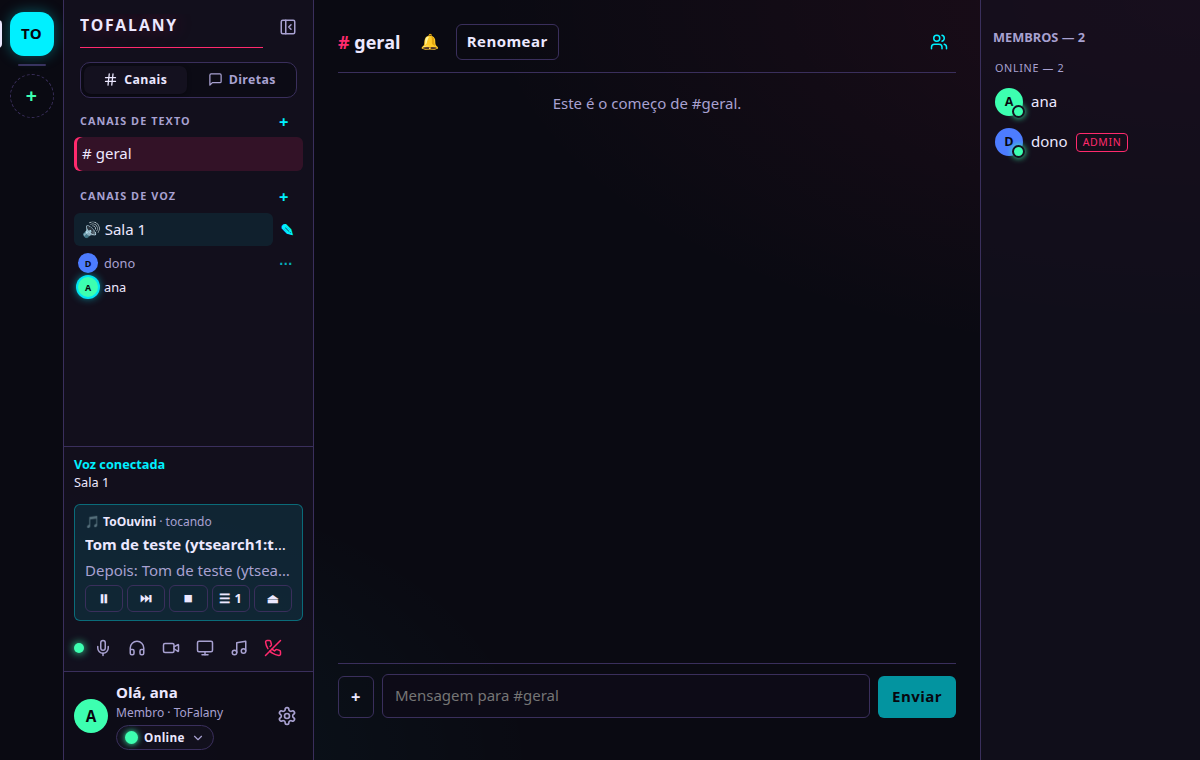
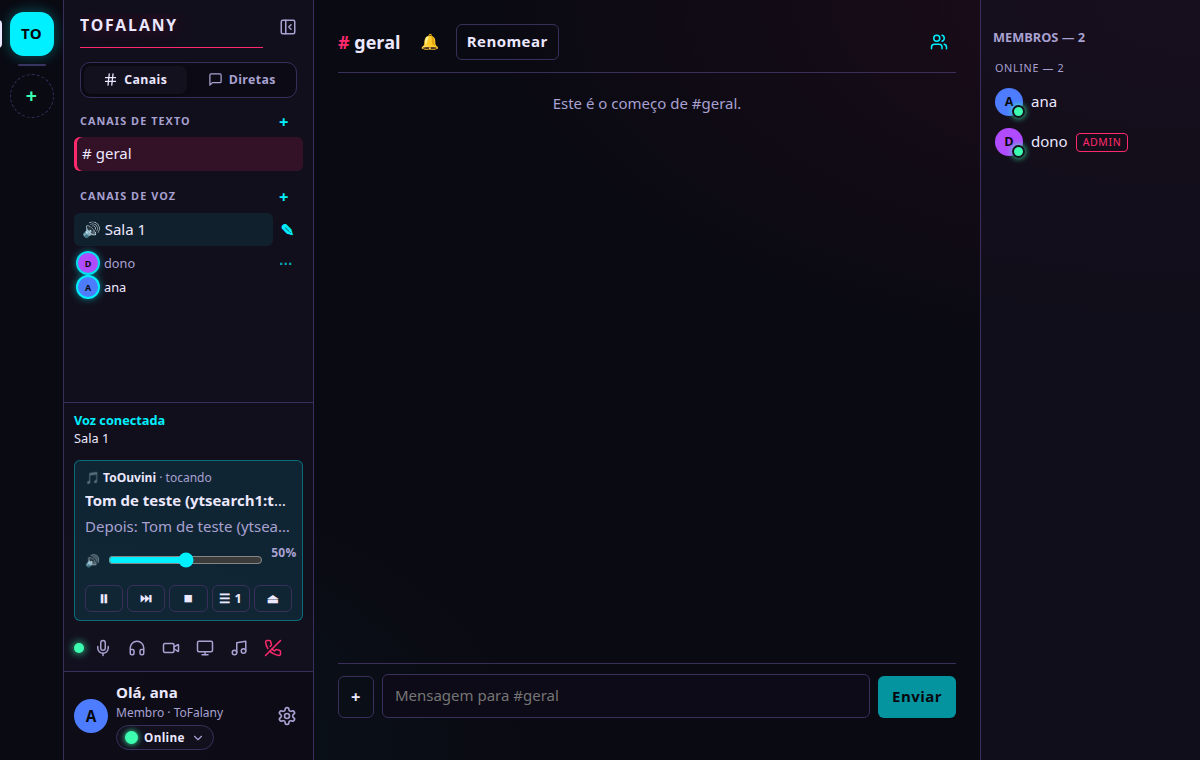
fix(ToOuvini): /play não dá mais "sem conexão"; "carregando…" até o primeiro som; volume só para mim
- Link do YouTube: título pelo oEmbed (menos de 1 s); busca por nome é rasa (sem extrair o vídeo)
- O app espera até 60 s pela resposta do comando (na VPS o YouTube leva uns 20 s)
- O painel mostra "carregando…" até o áudio sair (antes dizia "tocando" em silêncio)
- Barra de volume do ToOuvini no painel, só para quem ouve (começa em 50%), guardada como o volume de uma pessoa

diff --git a/client/src/renderer/telas/TelaPrincipal.tsx b/client/src/renderer/telas/TelaPrincipal.tsx
@@ -1,5 +1,5 @@
 import { useCallback, useEffect, useEffectEvent, useMemo, useRef, useState } from 'react';
-import { SOM_INTERVALO_MS, ATALHOS_PADRAO, AUDIO_PADRAO, DIGITANDO_DURACAO_MS, type AcaoAtalho, type StatusPessoa, type StatusVisivel, type EscolhaStatus, type Tema, type PartesOcultas, type Atalhos, type PreferenciasAudio, type PreferenciasPessoas, type PreferenciasSons, type PreferenciasNotificacoes, type PreferenciasTela, type QualidadeTela, TELA_PADRAO, qualidadesPermitidas, NOTIFICACOES_PADRAO, SONS_PADRAO, type Destino, type MensagemDto, type MotivoRevogacao, type TipoCanal, type UsuarioDto, permissoesDe, type Permissao, type AcaoFechar, acaoAoFechar, lerComandoMusica, type ComandoMusica } from '@tofalando/shared';
+import { SOM_INTERVALO_MS, ATALHOS_PADRAO, AUDIO_PADRAO, DIGITANDO_DURACAO_MS, type AcaoAtalho, type StatusPessoa, type StatusVisivel, type EscolhaStatus, type Tema, type PartesOcultas, type Atalhos, type PreferenciasAudio, type PreferenciasPessoas, type PreferenciasSons, type PreferenciasNotificacoes, type PreferenciasTela, type QualidadeTela, TELA_PADRAO, qualidadesPermitidas, NOTIFICACOES_PADRAO, SONS_PADRAO, type Destino, type MensagemDto, type MotivoRevogacao, type TipoCanal, type UsuarioDto, permissoesDe, type Permissao, IDENTIDADE_BOT_MUSICA, VOLUME_BOT_PADRAO, type AcaoFechar, acaoAoFechar, lerComandoMusica, type ComandoMusica } from '@tofalando/shared';
 import { useShallow } from 'zustand/react/shallow';
 import { useLoja } from '../estado/loja';
 import { conectarTempoReal, type ConexaoTempoReal } from '../servicos/tempo-real';
@@ -375,7 +375,7 @@ export function TelaPrincipal({ servidorUrl, token, usuarioInicial, aoSair, aoTr
     salaVozRef.current?.definirPessoas(novo);
     adiarGravacao({ pessoas: { servidor: servidorUrl, valor: novo } });
   }
-  const volumePessoa = (id: number, volume: number) =>
+  const volumePessoa = (id: number | string, volume: number) =>
     mudarPessoas({
       ...pessoasRef.current,
       volumes: { ...pessoasRef.current.volumes, [String(id)]: volume },
@@ -894,7 +894,8 @@ export function TelaPrincipal({ servidorUrl, token, usuarioInicial, aoSair, aoTr
   const enviarMensagem = (destino: Destino, texto: string, anexos: string[]) =>
     pedir((c) => c.pedir('mensagem:enviar', { destino, texto, anexos }), acoes.adicionarMensagem);
   /** Backlog v2, item 14: /tocar, /pular e /parar no chat viram comando do bot (não vão como mensagem). */
-  const comandoMusica = (comando: ComandoMusica) => pedir((c) => c.pedir('musica:comando', comando), acoes.definirMusica);
+  // A busca no YouTube leva alguns segundos na VPS: o comando espera até 60 s.
+  const comandoMusica = (comando: ComandoMusica) => pedir((c) => c.pedir('musica:comando', comando, 60_000), acoes.definirMusica);
   // /queue só abre a fila no painel (não vai ao servidor).
   const [filaMusicaAberta, setFilaMusicaAberta] = useState(false);
   const enviarNoCanal = (canalId: number, texto: string, anexos: string[]) => {
@@ -1158,6 +1159,8 @@ export function TelaPrincipal({ servidorUrl, token, usuarioInicial, aoSair, aoTr
                   aoComando={comandoMusica}
                   filaAberta={filaMusicaAberta}
                   aoAlternarFila={() => setFilaMusicaAberta(!filaMusicaAberta)}
+                  volume={pessoasVoz.volumes[IDENTIDADE_BOT_MUSICA] ?? VOLUME_BOT_PADRAO}
+                  aoVolume={(v) => volumePessoa(IDENTIDADE_BOT_MUSICA, v)}
                 />
               )}
               {minhaVoz !== null && !entrandoVoz && (

diff --git a/server/src/musica/fonte.ts b/server/src/musica/fonte.ts
@@ -70,6 +70,34 @@ export function lerPlaylist(saida: string, limite: number): InfoMusica[] {
   return lista;
 }
 
+/** Id do vídeo de um link do YouTube (watch?v=, youtu.be/, shorts/, music.youtube.com); undefined se não for de vídeo. */
+export function idDoVideo(link: string): string | undefined {
+  try {
+    const u = new URL(link);
+    if (!HOSTS_YOUTUBE.test(u.hostname)) return undefined;
+    const id = /youtu\.be$/i.test(u.hostname) ? u.pathname.slice(1) : (u.searchParams.get('v') ?? /^\/(shorts|live|embed)\/([\w-]+)/.exec(u.pathname)?.[2]);
+    return id && /^[\w-]{6,20}$/.test(id) ? id : undefined;
+  } catch {
+    return undefined;
+  }
+}
+
+/**
+ * Título pelo oEmbed do YouTube: responde em menos de um segundo (o yt-dlp completo leva uns 20 s numa VPS pequena,
+ * porque resolve o desafio de JavaScript do player). A duração fica desconhecida (0).
+ */
+export async function infoPorOembed(id: string, buscar: typeof fetch = fetch): Promise<InfoMusica | undefined> {
+  const url = `https://www.youtube.com/watch?v=${id}`;
+  try {
+    const r = await buscar(`https://www.youtube.com/oembed?format=json&url=${encodeURIComponent(url)}`, { signal: AbortSignal.timeout(8000) });
+    if (!r.ok) return undefined;
+    const j = (await r.json()) as { title?: unknown };
+    return typeof j.title === 'string' && j.title.trim() ? { titulo: j.title.trim().slice(0, 200), url, duracao: 0 } : undefined;
+  } catch {
+    return undefined;
+  }
+}
+
 /** Primeira linha JSON do yt-dlp (-j) → título, página e duração. */
 export function lerInfo(saida: string): InfoMusica {
   const linha = saida.split('\n').find((l) => l.trim().startsWith('{'));
@@ -119,9 +147,21 @@ export function criarFonteYtDlp(opcoes: { ytdlp?: string; ffmpeg?: string; extra
   return {
     async buscar(busca) {
       const alvo = alvoDaBusca(busca);
+      // Link de vídeo: o título vem rápido pelo oEmbed; o áudio é resolvido só na hora de tocar.
+      const id = idDoVideo(alvo);
+      if (id) {
+        const rapido = await infoPorOembed(id);
+        if (rapido) return rapido;
+      }
+      // Texto: busca "rasa" (só a lista de resultados, sem extrair o vídeo).
+      const raso = alvo.startsWith('ytsearch');
       let saida: string;
       try {
-        saida = await rodar(ytdlp, [...extrasBase, ...argsCookies(), '--no-playlist', '--no-warnings', '--skip-download', '-j', alvo], 45_000);
+        saida = await rodar(
+          ytdlp,
+          raso ? [...extrasBase, ...argsCookies(), '--flat-playlist', '--no-warnings', '-J', alvo] : [...extrasBase, ...argsCookies(), '--no-playlist', '--no-warnings', '--skip-download', '-j', alvo],
+          90_000,
+        );
       } catch (erro) {
         opcoes.registrarErro?.(erro);
         const recusa = /not a bot|sign in to confirm/i.test(String((erro as Error)?.message));
@@ -133,7 +173,10 @@ export function criarFonteYtDlp(opcoes: { ytdlp?: string; ffmpeg?: string; extra
             : 'Não consegui abrir essa música agora (o YouTube recusou ou está fora).',
         );
       }
-      return lerInfo(saida);
+      if (!raso) return lerInfo(saida);
+      const achada = lerPlaylist(saida, 1)[0];
+      if (!achada) throw new ErroHttp(404, 'nao_encontrado', 'Não achei essa música.');
+      return achada;
     },
     async buscarVarias(busca, limite) {
       if (!ehPlaylist(busca)) return [await this.buscar(busca)];

diff --git a/server/src/musica/bot.ts b/server/src/musica/bot.ts
@@ -5,8 +5,8 @@ import type { FluxoAudio, FonteMusica, InfoMusica } from './fonte.js';
 
 /** Para onde o bot manda o áudio (no servidor de verdade, um participante do LiveKit). */
 export interface SaidaAudio {
-  /** Toca o PCM até o fim do fluxo (ou até ele ser cortado). */
-  tocar(pcm: Readable): Promise<void>;
+  /** Toca o PCM até o fim do fluxo (ou até ele ser cortado); `aoComecar` quando o primeiro áudio sai. */
+  tocar(pcm: Readable, aoComecar?: () => void): Promise<void>;
   /** Segura o envio do áudio (pausa) e solta de novo. */
   pausar?(): void;
   continuar?(): void;
@@ -18,6 +18,8 @@ interface Canal {
   tocando: MusicaDto | null;
   desde: number | null;
   pausado: boolean;
+  /** Entre pedir o áudio ao YouTube e o primeiro som (na VPS leva uns 20 s). */
+  carregando: boolean;
   /** Tempo já tocado da música atual quando pausou (para o relógio continuar de onde parou). */
   decorrido: number;
   fluxo?: FluxoAudio;
@@ -56,6 +58,7 @@ export function criarBotMusica(deps: {
       fila: c ? [...c.fila] : [],
       pausado: c?.pausado ?? false,
       conectado: !!c?.saida,
+      carregando: c?.carregando ?? false,
     };
   };
   const avisar = (canalVozId: number) => deps.aoMudar(estado(canalVozId));
@@ -92,16 +95,23 @@ export function criarBotMusica(deps: {
         c.desde = agora();
         c.decorrido = 0;
         c.pausado = false;
+        c.carregando = true;
         avisar(canalVozId);
         try {
           c.saida ??= await deps.conectar(canalVozId);
           // Mandaram parar enquanto conectava.
           if (c.tocando !== musica) continue;
           c.fluxo = deps.fonte.abrir(musica.url);
-          await c.saida.tocar(c.fluxo.audio);
+          await c.saida.tocar(c.fluxo.audio, () => {
+            // O relógio da música começa no primeiro som.
+            c.carregando = false;
+            c.desde = agora();
+            avisar(canalVozId);
+          });
         } catch (erro) {
           deps.registrarErro(erro);
         } finally {
+          c.carregando = false;
           c.fluxo?.parar();
           c.fluxo = undefined;
         }
@@ -139,7 +149,7 @@ export function criarBotMusica(deps: {
       if (infos.length === 0) throw new ErroHttp(404, 'nao_encontrado', 'Não achei essa música.');
       let c = canais.get(canalVozId);
       if (!c) {
-        c = { fila: [], tocando: null, desde: null, pausado: false, decorrido: 0, rodando: false };
+        c = { fila: [], tocando: null, desde: null, pausado: false, carregando: false, decorrido: 0, rodando: false };
         canais.set(canalVozId, c);
       }
       c.fila.push(...infos.slice(0, espaco).map((i) => ({ ...i, pedidoPor: usuarioId })));

diff --git a/server/test/musica.test.ts b/server/test/musica.test.ts
@@ -2,7 +2,7 @@ import { PassThrough, type Readable } from 'node:stream';
 import { describe, expect, it, vi } from 'vitest';
 import { lerComandoMusica, type EstadoMusica } from '@tofalando/shared';
 import { criarBotMusica, type SaidaAudio } from '../src/musica/bot.js';
-import { alvoDaBusca, ehPlaylist, lerInfo, lerPlaylist, type FonteMusica } from '../src/musica/fonte.js';
+import { alvoDaBusca, ehPlaylist, idDoVideo, infoPorOembed, lerInfo, lerPlaylist, type FonteMusica } from '../src/musica/fonte.js';
 import { quadros, urlDaSala } from '../src/musica/saida-livekit.js';
 import { ErroHttp } from '../src/erros.js';
 
@@ -70,7 +70,7 @@ describe('ToOuvini, o bot de música (backlog v2, item 14)', () => {
     await new Promise((r) => setTimeout(r, 50));
     expect(fechar).toHaveBeenCalledTimes(1);
     expect(bot.estados()).toEqual([]);
-    expect(estados.at(-1)).toEqual({ canalVozId: 7, tocando: null, desde: null, fila: [], pausado: false, conectado: false });
+    expect(estados.at(-1)).toEqual({ canalVozId: 7, tocando: null, desde: null, fila: [], pausado: false, conectado: false, carregando: false });
   });
 
   it('pausa e continua; stop limpa e espera; kick sai na hora; canais diferentes têm filas separadas', async () => {
@@ -161,6 +161,18 @@ describe('fonte e saída do bot', () => {
       { titulo: 'Um', url: 'https://www.youtube.com/watch?v=a1', duracao: 200 },
       { titulo: 'Três', url: 'https://www.youtube.com/watch?v=c3', duracao: 0 },
     ]);
+  });
+
+  it('id do vídeo dos vários formatos de link; título rápido pelo oEmbed', async () => {
+    expect(idDoVideo('https://www.youtube.com/watch?v=oNMgR54yuTI&t=3')).toBe('oNMgR54yuTI');
+    expect(idDoVideo('https://youtu.be/oNMgR54yuTI')).toBe('oNMgR54yuTI');
+    expect(idDoVideo('https://music.youtube.com/watch?v=oNMgR54yuTI&list=RD')).toBe('oNMgR54yuTI');
+    expect(idDoVideo('https://www.youtube.com/shorts/abcDEF12345')).toBe('abcDEF12345');
+    expect(idDoVideo('https://www.youtube.com/playlist?list=PL1')).toBeUndefined();
+    expect(idDoVideo('ytsearch1:jeremy')).toBeUndefined();
+    const buscar = (async () => new Response(JSON.stringify({ title: 'Pearl Jam - Jeremy' }))) as unknown as typeof fetch;
+    expect(await infoPorOembed('abc123', buscar)).toEqual({ titulo: 'Pearl Jam - Jeremy', url: 'https://www.youtube.com/watch?v=abc123', duracao: 0 });
+    expect(await infoPorOembed('abc123', (async () => new Response('nope', { status: 404 })) as unknown as typeof fetch)).toBeUndefined();
   });
 
   it('só links do YouTube; texto vira busca', () => {

diff --git a/client/src/renderer/componentes/PainelMusica.tsx b/client/src/renderer/componentes/PainelMusica.tsx
@@ -19,6 +19,8 @@ export function PainelMusica({
   aoComando,
   filaAberta,
   aoAlternarFila,
+  volume = 0.5,
+  aoVolume,
 }: {
   estado: EstadoMusica | undefined;
   usuarios: UsuarioDto[];
@@ -26,24 +28,27 @@ export function PainelMusica({
   /** /queue abre a fila; o botão alterna. */
   filaAberta: boolean;
   aoAlternarFila: () => void;
+  /** Volume do ToOuvini só para mim (0 a 1), guardado como o de uma pessoa. */
+  volume?: number;
+  aoVolume?: (v: number) => void;
 }) {
   const [erro, setErro] = useState<string | null>(null);
   if (!estado?.tocando && !estado?.conectado) return null;
-  const { tocando, fila, pausado } = estado;
+  const { tocando, fila, pausado, carregando } = estado;
   const quem = (id: number) => usuarios.find((u) => u.id === id)?.nomeExibicao ?? 'alguém';
   const mandar = async (c: ComandoMusica) => setErro(await aoComando(c));
   return (
     <div className={`painel-musica${pausado ? ' pausado' : ''}`} role="region" aria-label="Música no canal">
       <p className="musica-bot">
         <span aria-hidden="true">🎵</span> <strong>ToOuvini</strong>
-        <span className="suave">{tocando ? (pausado ? ' · pausado' : ' · tocando') : ' · na sala, sem música (/play para pedir)'}</span>
+        <span className="suave">{tocando ? (carregando ? ' · carregando…' : pausado ? ' · pausado' : ' · tocando') : ' · na sala, sem música (/play para pedir)'}</span>
       </p>
       {tocando && (
         <p className="musica-atual">
           <strong title={tocando.titulo}>{tocando.titulo}</strong>
           <span className="suave">
             {' '}
-            · {tempo(tocando.duracao)} · pedido por {quem(tocando.pedidoPor)}
+            {tocando.duracao ? ` · ${tempo(tocando.duracao)}` : ''} · pedido por {quem(tocando.pedidoPor)}
           </span>
         </p>
       )}
@@ -62,6 +67,13 @@ export function PainelMusica({
             </li>
           ))}
         </ol>
+      )}
+      {aoVolume && (
+        <label className="musica-volume" title="Volume do ToOuvini (só para você)">
+          <span aria-hidden="true">{volume === 0 ? '🔇' : volume < 0.5 ? '🔉' : '🔊'}</span>
+          <input type="range" min={0} max={100} step={5} value={Math.round(volume * 100)} aria-label="Volume do ToOuvini" onChange={(e) => aoVolume(Number(e.target.value) / 100)} />
+          <span className="suave musica-volume-valor">{Math.round(volume * 100)}%</span>
+        </label>
       )}
       <div className="musica-botoes">
         {tocando &&

diff --git a/server/src/musica/saida-livekit.ts b/server/src/musica/saida-livekit.ts
@@ -1,10 +1,10 @@
 import type { Readable } from 'node:stream';
 import { AccessToken, TrackSource as FonteToken } from 'livekit-server-sdk';
-import { salaLivekit } from '@tofalando/shared';
+import { IDENTIDADE_BOT_MUSICA, salaLivekit } from '@tofalando/shared';
 import type { SaidaAudio } from './bot.js';
 
 /** Identidade do bot no LiveKit (não é número: o webhook e o app não confundem com uma pessoa). */
-export const IDENTIDADE_BOT = 'bot-musica';
+export const IDENTIDADE_BOT = IDENTIDADE_BOT_MUSICA;
 
 /** Nome do bot de música, como ele aparece no canal. */
 export const NOME_BOT = 'ToOuvini';
@@ -62,8 +62,9 @@ export function criarConectorLivekit(lk: { urlInterna: string; chave: string; se
         soltar = undefined;
         pausa = undefined;
       },
-      async tocar(pcm: Readable) {
+      async tocar(pcm: Readable, aoComecar?: () => void) {
         let pendente: Buffer = Buffer.alloc(0);
+        let comecou = false;
         for await (const pedaco of pcm as AsyncIterable<Buffer>) {
           pendente = pendente.length ? Buffer.concat([pendente, pedaco]) : pedaco;
           const corte = quadros(pendente);
@@ -75,6 +76,10 @@ export function criarConectorLivekit(lk: { urlInterna: string; chave: string; se
             }
             if (pausa) await pausa;
             await fonte.captureFrame(new rtc.AudioFrame(r.value, TAXA, CANAIS, AMOSTRAS));
+            if (!comecou) {
+              comecou = true;
+              aoComecar?.();
+            }
           }
         }
         await fonte.waitForPlayout();

diff --git a/client/src/renderer/servicos/tempo-real.ts b/client/src/renderer/servicos/tempo-real.ts
@@ -74,7 +74,8 @@ export interface ConexaoTempoReal {
   /** Backlog v2, item 2: status escolhido (vai também no handshake das reconexões). */
   escolherStatus(status: EscolhaStatus): void;
   /** Envia uma ação e espera a resposta do servidor (ou "sem conexão" se não estiver conectado / demorar). */
-  pedir<K extends EventoComResposta>(evento: K, dados: Parameters<EventosCliente[K]>[0]): Promise<RespostaAcao<AckValor<K>>>;
+  /** `tempoMs`: quanto esperar a resposta (padrão 10 s; a busca de música no YouTube pede mais). */
+  pedir<K extends EventoComResposta>(evento: K, dados: Parameters<EventosCliente[K]>[0], tempoMs?: number): Promise<RespostaAcao<AckValor<K>>>;
 }
 
 /** Eventos que esperam resposta (ack); "digitando" é só um sinal. */
@@ -191,10 +192,10 @@ export function conectarTempoReal(
     avisarDigitando(destino) {
       if (socket.connected) socket.emit('digitando', { destino });
     },
-    pedir(evento, dados) {
+    pedir(evento, dados, tempoMs = 10_000) {
       if (!socket.connected) return Promise.resolve({ ok: false, erro: SEM_CONEXAO });
       return new Promise((resolver) => {
-        (socket.timeout(10_000).emit as (e: string, d: unknown, cb: (erro: Error | null, r: never) => void) => void)(evento, dados, (erro, resposta) =>
+        (socket.timeout(tempoMs).emit as (e: string, d: unknown, cb: (erro: Error | null, r: never) => void) => void)(evento, dados, (erro, resposta) =>
           resolver(erro ? { ok: false, erro: SEM_CONEXAO } : resposta),
         );
       });

diff --git a/client/src/renderer/servicos/voz.ts b/client/src/renderer/servicos/voz.ts
@@ -1,5 +1,5 @@
 import { Room, RoomEvent, Track, type Participant, type RemoteParticipant, type RemoteTrack } from 'livekit-client';
-import { DIMENSOES_TELA, type PreferenciasAudio, type QualidadeTela } from '@tofalando/shared';
+import { DIMENSOES_TELA, IDENTIDADE_BOT_MUSICA, VOLUME_BOT_PADRAO, type PreferenciasAudio, type QualidadeTela } from '@tofalando/shared';
 import { abrirMicrofone, type Microfone } from './pipeline-audio';
 import { criarMedidorFala, fonteDeFaixa } from './medidor-fala';
 
@@ -191,7 +191,7 @@ export function criarSalaVoz(ouvintes: OuvintesVoz, fabrica: () => SalaLivekit =
   let silenciados = new Set<string>();
   function aplicarVolume(elemento: HTMLMediaElement, faixa: RemoteTrack) {
     const id = elemento.dataset.participante ?? '';
-    const v = controles.surdo || silenciados.has(id) ? 0 : (volumes[id] ?? 1);
+    const v = controles.surdo || silenciados.has(id) ? 0 : (volumes[id] ?? (id === IDENTIDADE_BOT_MUSICA ? VOLUME_BOT_PADRAO : 1));
     const ajustar = (faixa as RemoteTrack & { setVolume?(v: number): void }).setVolume?.bind(faixa);
     try {
       ajustar?.(v);

diff --git a/shared/src/validacao.ts b/shared/src/validacao.ts
@@ -206,7 +206,8 @@ export function mesclarPessoas(base: Record<string, PreferenciasPessoas>, bruto:
     const volumes: Record<string, number> = {};
     if (v.volumes && typeof v.volumes === 'object') {
       for (const [id, vol] of Object.entries(v.volumes as Record<string, unknown>).slice(0, 200)) {
-        if (/^\d{1,9}$/.test(id) && typeof vol === 'number' && Number.isFinite(vol) && vol >= 0 && vol <= VOLUME_PESSOA_MAX) volumes[id] = Math.round(vol * 100) / 100;
+        // Ids das pessoas e o do ToOuvini (bot-musica), cada um com o seu volume.
+        if (/^(\d{1,9}|bot-musica)$/.test(id) && typeof vol === 'number' && Number.isFinite(vol) && vol >= 0 && vol <= VOLUME_PESSOA_MAX) volumes[id] = Math.round(vol * 100) / 100;
       }
     }
     const silenciados = Array.isArray(v.silenciados) ? [...new Set(v.silenciados.filter((id): id is number => Number.isInteger(id) && id > 0))].slice(0, 200) : [];

diff --git a/shared/src/protocolo.ts b/shared/src/protocolo.ts
@@ -544,6 +544,8 @@ export interface EstadoMusica {
   pausado?: boolean;
   /** O ToOuvini está na sala (mesmo sem tocar: depois de /stop ele espera alguns minutos). */
   conectado?: boolean;
+  /** Buscando o áudio da música atual no YouTube (ainda sem som). */
+  carregando?: boolean;
 }
 
 export type ComandoMusica =
@@ -639,3 +641,8 @@ export function separarComunidade(url: string): { base: string; comunidade: numb
   const m = /^(.*?)\/c\/(\d{1,9})\/?$/.exec(url);
   return m ? { base: m[1]!, comunidade: Number(m[2]) } : { base: url.replace(/\/+$/, ''), comunidade: COMUNIDADE_PRINCIPAL };
 }
+
+/** Identidade do ToOuvini na sala de voz (o volume dele fica guardado por esta chave, como o de uma pessoa). */
+export const IDENTIDADE_BOT_MUSICA = 'bot-musica';
+/** Volume inicial do ToOuvini para quem ouve (música costuma ser mais alta que voz). */
+export const VOLUME_BOT_PADRAO = 0.5;

diff --git a/client/e2e/voz.spec.ts b/client/e2e/voz.spec.ts
@@ -591,6 +591,11 @@ test('backlog v2, item 14: /tocar no chat põe o bot no canal de voz; todos ouve
     .toBeGreaterThan(0.01);
   await ana.janela.screenshot({ path: join(__dirname, '../../docs/demandas/to-falando-v2/prints/bot-musica.png') });
 
+  // Volume do ToOuvini só para a ana: começa em 50% e a barra muda o volume do áudio dele.
+  const volume = painelAna.getByLabel('Volume do ToOuvini');
+  await expect(volume).toHaveValue('50');
+  await volume.fill('20');
+  await expect.poll(() => audioBot.getAttribute('data-volume')).toBe('0.2');
   // Pausar e continuar; pular vai para a segunda.
   await painelAna.getByRole('button', { name: 'Pausar' }).click();
   await expect(painelAna).toContainText('pausado');

diff --git a/client/src/renderer/estilos/base.css b/client/src/renderer/estilos/base.css
@@ -608,3 +608,8 @@ button.icone.esconder-canais:hover:not(:disabled), button.icone.mostrar-canais:h
 
 /* Versão do app (e do servidor) no rodapé do menu do usuário. */
 .menu-usuario .versao-app { margin: 6px 4px 0; padding-top: 6px; border-top: 1px solid var(--borda); font-size: 0.7rem; color: var(--texto-suave); text-align: center; }
+
+/* Volume do ToOuvini (só para quem ouve). */
+.musica-volume { display: flex; align-items: center; gap: 8px; margin: 2px 0 6px; font-size: 0.8rem; }
+.musica-volume input[type='range'] { flex: 1; margin: 0; accent-color: var(--destaque); }
+.musica-volume-valor { width: 34px; text-align: right; font-variant-numeric: tabular-nums; }
